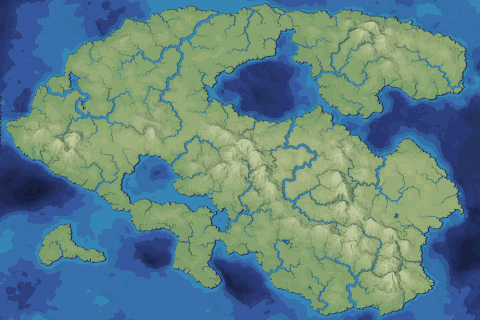
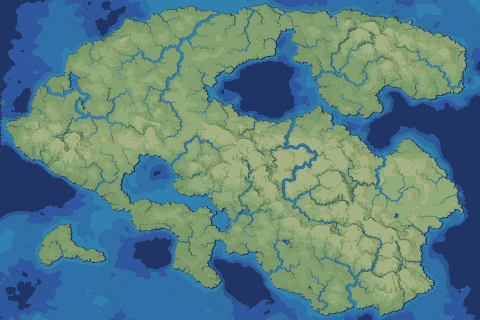
make world map 16 cols because it's easier

diff --git a/src/worldmap_screen.c b/src/worldmap_screen.c
@@ -15,6 +15,7 @@ extern u8 gUnk_61;
 extern u8 gWorldmapGmap_0[];  // FEB: worldmap_big_image Length:76800
 extern u16 gWorldmapGmap_2[]; // FEB: worldmap_big_palette Length:128
 extern u16 gWorldmapGmap_3[]; // FEB: worldmap_big_palettemap Length:673
+extern u16 gPal_WorldmapGmap_0[];
 
 //! FE8U = 0x080BA424
 void GMapScreen_OnWorldmapEventUpdate(void)
@@ -51,14 +52,12 @@ u32 GMapScreen_FillBg3TileIndices(void)
 void GMapScreen_LoadTileGfx(struct GmScreenProc * proc)
 {
     int i;
-
     for (i = 0; i < 0x20; i++)
     {
         CpuFastCopy(proc->unk_3c + (i * 0x780), (void*)(0x06008000 + (i * 0x400)), 0x400);
     }
 
     GMapScreen_FillBg3TileIndices();
-
     BG_EnableSyncByMask(BG3_SYNC_BIT);
 
     return;
@@ -67,6 +66,10 @@ void GMapScreen_LoadTileGfx(struct GmScreenProc * proc)
 //! FE8U = 0x080BA4D0
 void GMapScreen_ApplyTilePalettes(struct GmScreenProc * proc)
 {
+#if FE8_CUSTOM_CAMPAIGN
+    return;
+#endif
+
     int x;
     int y;
     u8 * r5;
@@ -281,8 +284,12 @@ void MapScreen_Init(struct GmScreenProc * proc)
 
     proc->unk_40 = BG_GetMapBuffer(BG_3);
 
+// #if FE8_CUSTOM_CAMPAIGN
+    // proc->unk_44 = NULL;
+// #else
     Decompress(gWorldmapGmap_3, gUnk_3);
     proc->unk_44 = gUnk_3;
+// #endif
     proc->unk_2c = 0;
     proc->unk_2b = 0;
     proc->unk_2e = 0;
@@ -292,7 +299,11 @@ void MapScreen_Init(struct GmScreenProc * proc)
     proc->unk_32 = 0;
     proc->unk_31 = 0;
 
+#if FE8_CUSTOM_CAMPAIGN
+    ApplyPalettes(gPal_WorldmapGmap_0, 9, 4);
+#else
     ApplyPalettes(gWorldmapGmap_2, 9, 4);
+#endif
     EnablePaletteSync();
 
     BG_Fill(gBG3TilemapBuffer, 0);

diff --git a/src/worldmap_rm.c b/src/worldmap_rm.c
@@ -143,10 +143,16 @@ void GmapRm_StartUpdateDirect(struct ProcGmapRm * proc)
     GM_SCREEN->gmroute->flags &= ~GM_ROUTE_FLAG_2;
 
     BG_SetPosition(BG_1, 0, 0);
+#if FE8_CUSTOM_CAMPAIGN
+    Decompress(Img_EventGmap, (void *)BG_VRAM);
+    ApplyPalettes(Pal_EventGmap, 5, 4);
+    CpuFastCopy((void *)BG_VRAM, gBG1TilemapBuffer, 0x5000);
+#else
     Decompress(Img_EventGmap, (void *)BG_VRAM);
     ApplyPalettes(Pal_EventGmap, 5, 4);
     Decompress(Tsa_EventGmap, gGenericBuffer);
     CallARM_FillTileRect(gBG1TilemapBuffer, gGenericBuffer, 0x5000);
+#endif
     BG_EnableSyncByMask(BG1_SYNC_BIT);
 
     Proc_Start(ProcScr_GmapRmUpdateDirect, proc);

diff --git a/src/worldmap_entry.c b/src/worldmap_entry.c
@@ -422,8 +422,12 @@ void LoadWorldmapMinimap(void)
     EnablePaletteSync();
 
     Decompress(gImg_WorldmapMinimap_0, (void *)0x06004C00);
+#if FE8_CUSTOM_CAMPAIGN
+    CpuFastCopy((void *)0x06004C00, gBG0TilemapBuffer, 0x2260);
+#else
     Decompress(gTsa_WorldmapMinimap_0, gGenericBuffer);
     CallARM_FillTileRect(gBG0TilemapBuffer, gGenericBuffer, 0x2260);
+#endif
 
     BG_EnableSyncByMask(BG0_SYNC_BIT);
 
